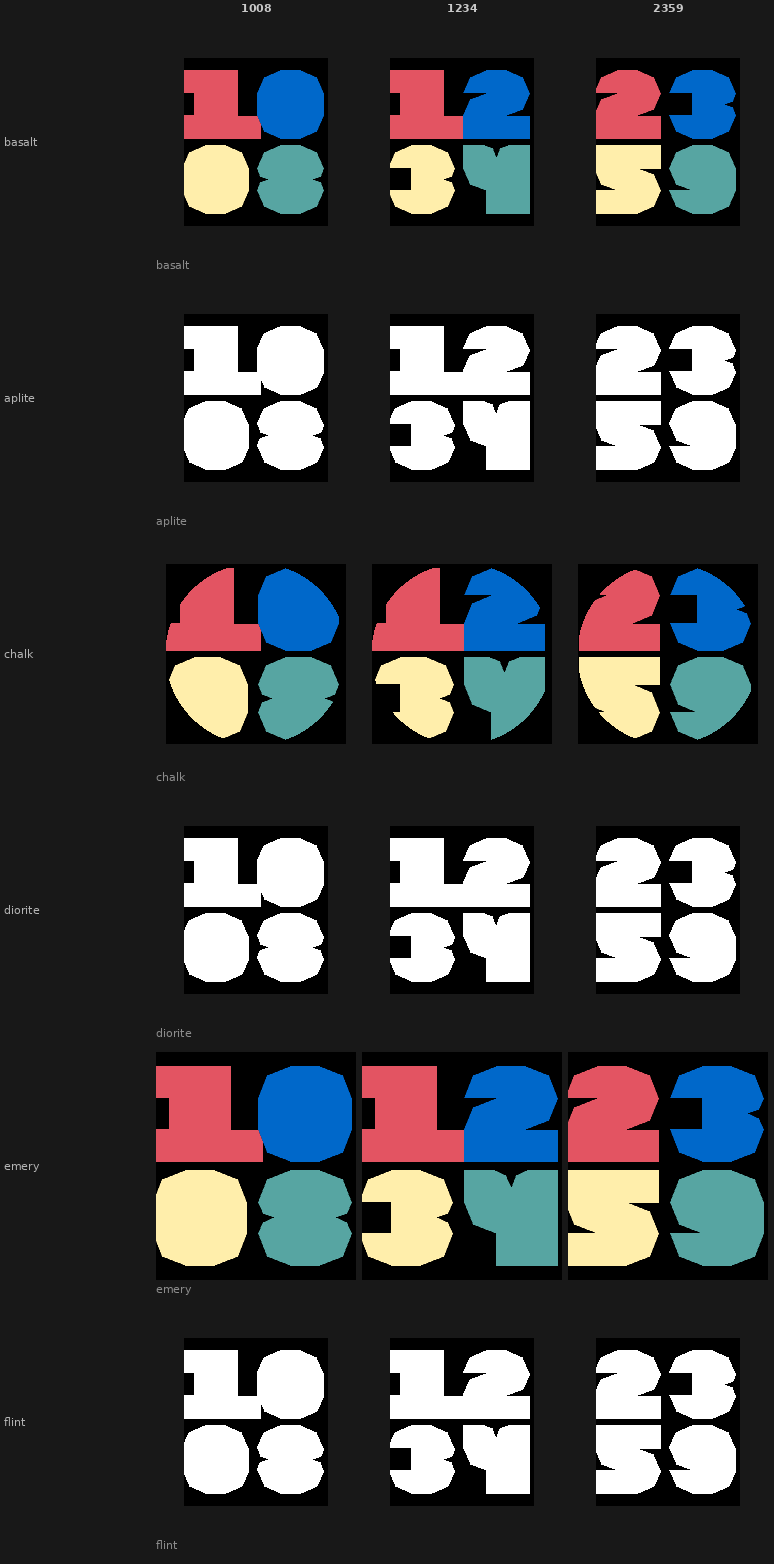
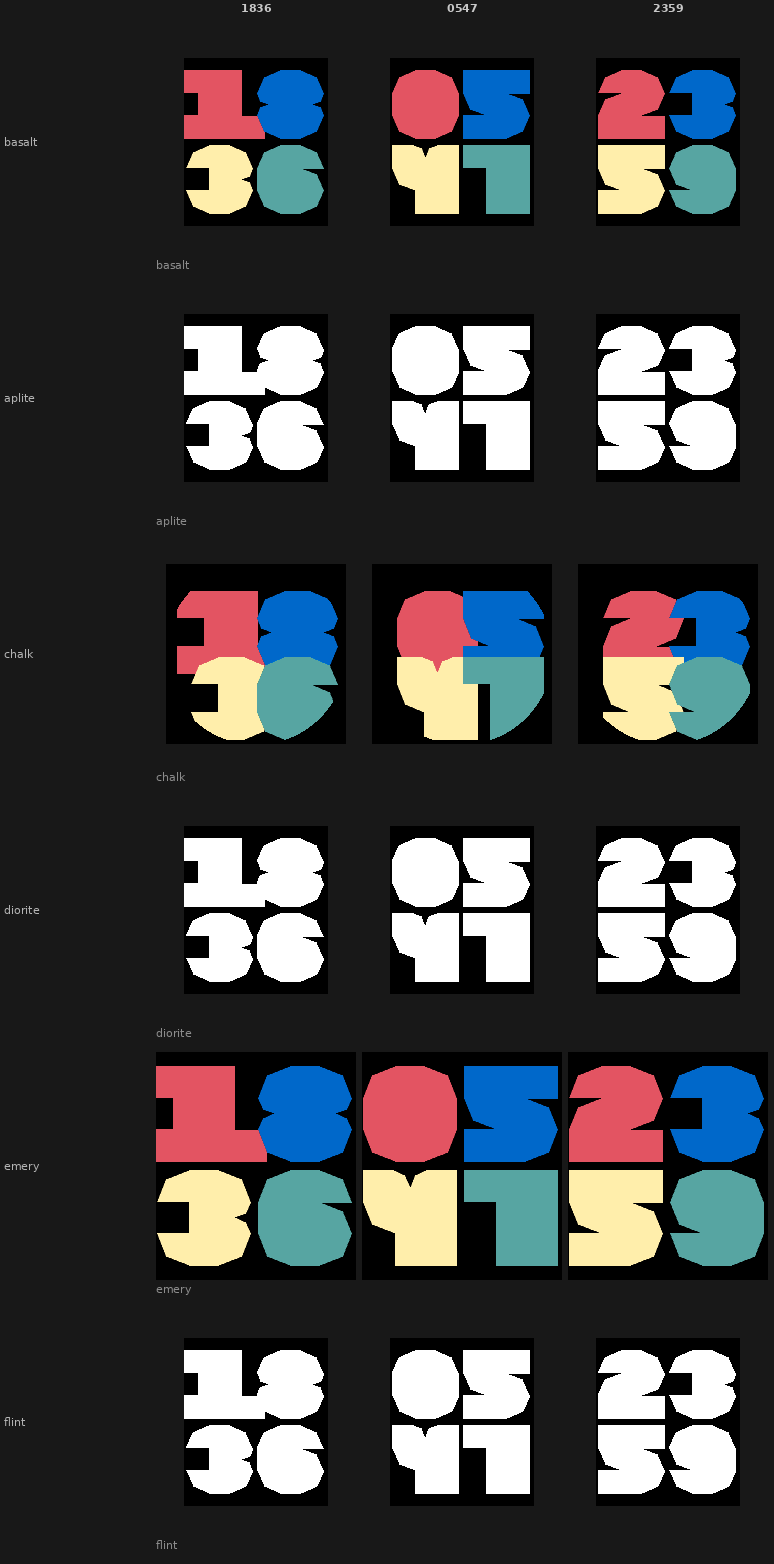
fix(claude-fails): fit digits within screen bounds + update shot times
- Scale PDC glyphs at runtime via gdraw_command_image_set_bounds_size
- Round (chalk): inscribed-square grid so colored cells stay inside circle
- Rect screens: enforce 4px minimum margin so digits don't touch edges
- Restore resources.media in package.json (needed to rebuild)
- Shot times updated to 18:36 / 05:47 / 23:59 for both claude-fails and lslt

diff --git a/watchfaces/claude-fails/src/c/claude-fail.c b/watchfaces/claude-fails/src/c/claude-fail.c
@@ -34,22 +34,37 @@ static Layer               *s_layer;
 static struct tm            s_time;
 static GDrawCommandImage   *s_digits[10];
 static GRect                s_digit_rects[4]; // [H1, H2, M1, M2]
+static GSize                s_glyph_size;
 
 static void recalculate_layout(GRect bounds) {
     int sw = bounds.size.w;
     int sh = bounds.size.h;
-    int gap_h = sw / 20;
-    int gap_v = sh / 24;
-    int total_w = 2 * DIGIT_W + gap_h;
-    int total_h = 2 * CAP_H  + gap_v;
+    int dw, dh, gap_h, gap_v;
+#ifdef PBL_ROUND
+    // Scale grid down so its corners fit inside the circular screen.
+    // Inscribed-square side = sw * sqrt(2)/2 ≈ sw * 7071/10000
+    int side = ((sw * 7071) / 10000) & ~1;
+    gap_h = gap_v = side / 20;
+    dw = dh = (side - gap_h) / 2;
+#else
+    gap_h = sw / 20; gap_v = sh / 24;
+    // Ensure at least 4px margin on each side
+    int max_dw = (sw - 8 - gap_h) / 2;
+    int max_dh = (sh - 8 - gap_v) / 2;
+    dw = (DIGIT_W  < max_dw) ? DIGIT_W  : max_dw;
+    dh = (CAP_H    < max_dh) ? CAP_H    : max_dh;
+#endif
+    s_glyph_size = GSize(dw, dh);
+    int total_w = 2 * dw + gap_h;
+    int total_h = 2 * dh + gap_v;
     int x0 = (sw - total_w) / 2;
-    int x1 = x0 + DIGIT_W + gap_h;
+    int x1 = x0 + dw + gap_h;
     int y0 = (sh - total_h) / 2;
-    int y1 = y0 + CAP_H + gap_v;
-    s_digit_rects[0] = GRect(x0, y0, DIGIT_W, CAP_H);
-    s_digit_rects[1] = GRect(x1, y0, DIGIT_W, CAP_H);
-    s_digit_rects[2] = GRect(x0, y1, DIGIT_W, CAP_H);
-    s_digit_rects[3] = GRect(x1, y1, DIGIT_W, CAP_H);
+    int y1 = y0 + dh + gap_v;
+    s_digit_rects[0] = GRect(x0, y0, dw, dh);
+    s_digit_rects[1] = GRect(x1, y0, dw, dh);
+    s_digit_rects[2] = GRect(x0, y1, dw, dh);
+    s_digit_rects[3] = GRect(x1, y1, dw, dh);
 }
 
 static void draw_digit(GContext *ctx, int digit, GRect r, GColor fg) {
@@ -106,6 +121,9 @@ static void window_load(Window *window) {
     Layer *root = window_get_root_layer(window);
     GRect bounds = layer_get_bounds(root);
     recalculate_layout(bounds);
+    for (int i = 0; i < 10; i++) {
+        gdraw_command_image_set_bounds_size(s_digits[i], s_glyph_size);
+    }
 
     s_layer = layer_create(bounds);
     layer_set_update_proc(s_layer, layer_update_proc);
